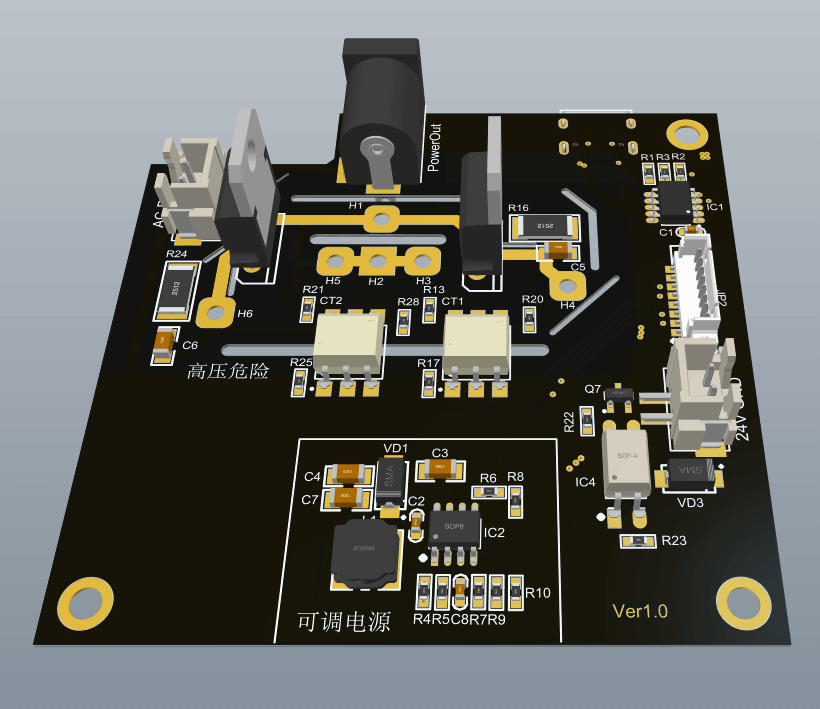
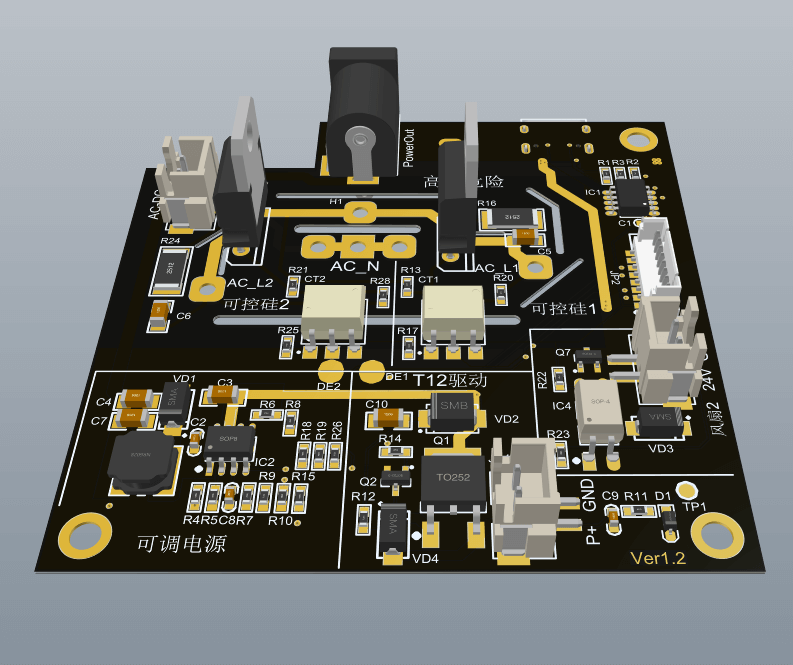
md images

diff --git a/README.md b/README.md
@@ -1,5 +1,5 @@
 # SuperHeat
-多功能加热控制器（二代），平板加热台、风枪双控、可调电源。本项目内有220V高压，务必小心，后果自负。
+多功能加热控制器（二代），平板加热台、风枪、T12烙铁（PD）、可调电源多控。本项目内有220V高压，务必小心，后果自负。
 
 另外：为了充分利用硬件资源，将会附带双路示波器（采样2M）、函数发生器、高精度脉冲输出（可用与点焊机）。额外会有锁屏时钟等等超多功能。
 
@@ -8,7 +8,7 @@
 * 上一代旧版控制器项目 https://github.com/ClimbSnail/HeatPlatform_SMT （底成本方案）
 
 # 项目简介
-本项目使用ESP32模组开发。同时控制加热板和风枪工作，亦可 __同时插接两个风枪__ 或 __同时插接两个加热板__ 。
+本项目使用ESP32模组开发。同时控制加热板、风枪、T12烙铁、数字可调电源工作 。
 
 1. 使用TFT 1.69寸240*280的tft彩屏，使用LVGL做界面，增强操作的动画效果。
 2. 配套上位机软件，用于更新固件和绘制温控曲线等等。
